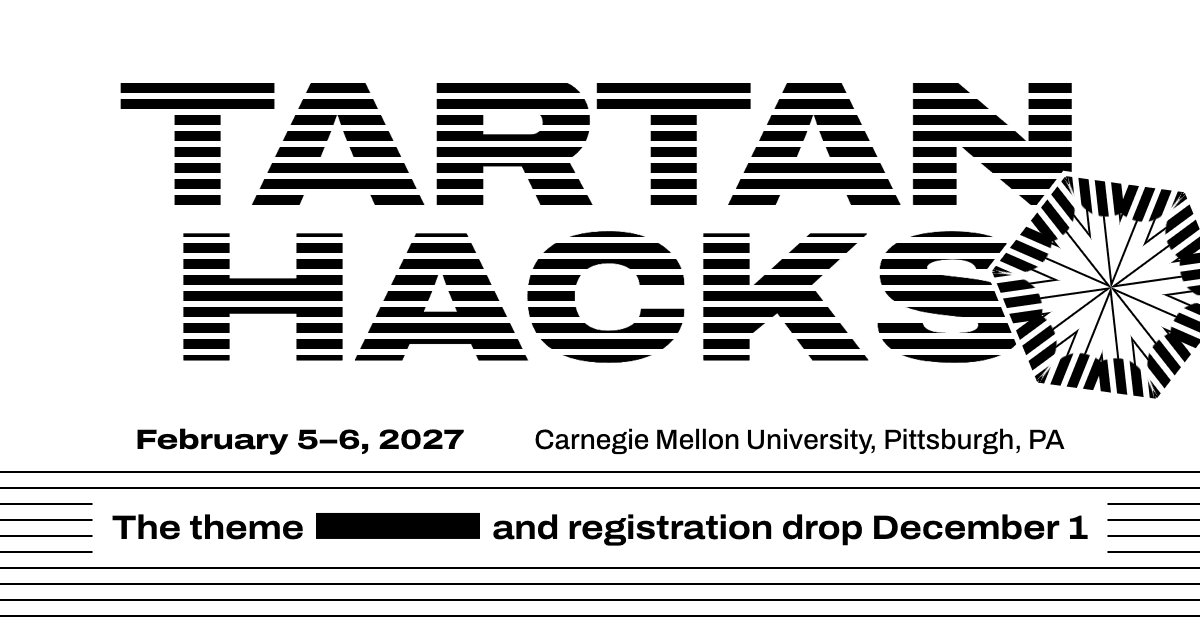
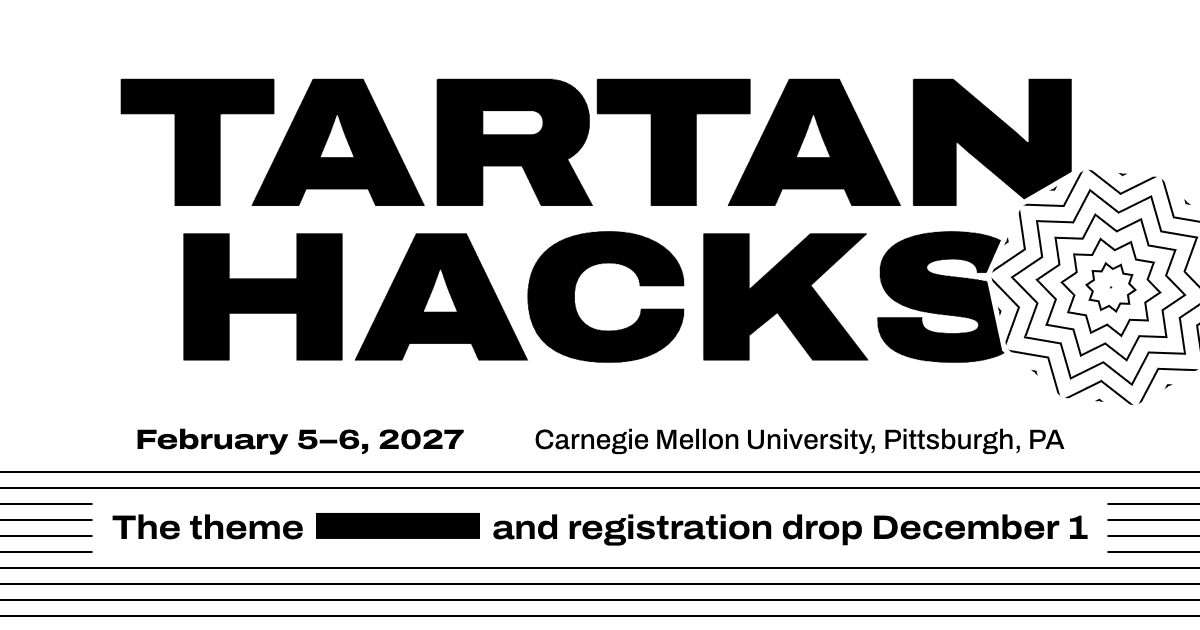
Draw the wordmark solid
The wordmark's rules now swell until they meet, so it stands solid black
on the white top of the sheet. Inside a fold it still breaks into heavy
rules, so the pointer effect is unchanged.

The share image is redrawn to match.

Changed region(s): [[0.0925, 0.1206, 1.0, 0.6333]]

diff --git a/src/field/shader.ts b/src/field/shader.ts
@@ -32,7 +32,7 @@ uniform vec2 uResolution;
 uniform float uPitch;       // distance between rules
 uniform float uCentre;      // offset of a rule's centre line within one pitch
 uniform float uThin;        // half the width of a plain rule
-uniform float uThick;       // half the width of a rule where the wordmark is
+uniform float uThick;       // half the width of a rule where a fold shows the wordmark
 uniform float uSeam;        // half the width of the cut around a facet
 
 uniform sampler2D uInk;     // coverage of the wordmark
@@ -109,8 +109,12 @@ void main() {
   float plain = rule(q.y, uThin);
   if (!folded) plain *= 1.0 - cleared(p);
 
+  // The wordmark inks in by its rules swelling. On the sheet as it lies they
+  // swell until they meet, and the wordmark is solid. Seen through a fold they
+  // stop short, so a fold is made of lines and nothing else.
   float ink = texture(uInk, (q - uInkRect.xy) / uInkRect.zw).r;
-  float cover = max(plain, rule(q.y, mix(uThin, uThick, uInkGain)) * ink);
+  float heavy = folded ? uThick : 0.5 * uPitch + 1.0;
+  float cover = max(plain, rule(q.y, mix(uThin, heavy, uInkGain)) * ink);
   cover *= revealed(p) * (1.0 - seam);
 
   fragColor = vec4(vec3(1.0 - cover), 1.0);

diff --git a/src/field/field.ts b/src/field/field.ts
@@ -65,8 +65,8 @@ function compile(gl: WebGL2RenderingContext, type: number, source: string): WebG
 }
 
 /**
- * The ruled sheet behind the page: horizontal rules, thickened where the
- * wordmark is, and folded into mirrored figures wherever the pointer travels.
+ * The ruled sheet behind the page: horizontal rules, the wordmark drawn into
+ * them, and the whole folded into mirrored figures wherever the pointer travels.
  */
 export class Field {
   /** Returns null when WebGL 2 is unavailable; the page then falls back to CSS rules. */

diff --git a/src/field/ink.ts b/src/field/ink.ts
@@ -1,5 +1,5 @@
 /**
- * Rasterises the wordmark into a coverage mask the field can thicken its
+ * Rasterises the wordmark into a coverage mask the field can draw its
  * rules through. The DOM stays the source of truth for layout: every glyph is
  * drawn where the browser placed it, so the drawn wordmark sits exactly over
  * the (transparent) text.

diff --git a/README.md b/README.md
@@ -59,9 +59,9 @@ src/styles/             tokens, base, layout, entrance
 
 ### The field
 
-The background is one WebGL 2 canvas behind the page. It draws a sheet of horizontal rules, thickens them wherever the wordmark is, and folds the sheet into mirrored figures where the pointer travels.
+The background is one WebGL 2 canvas behind the page. It draws a sheet of horizontal rules, draws the wordmark into them, and folds the sheet into mirrored figures where the pointer travels.
 
-Above the band the plain rules only pass through: they draw in with the rest of the sheet during the entrance, then leave, so the wordmark's heavy rules sit on white. The sheet is still there underneath, and shows again inside every fold.
+Above the band the plain rules only pass through: they draw in with the rest of the sheet during the entrance, then leave, so the wordmark sits solid on white. The sheet is still there underneath, and shows again inside every fold, where the wordmark breaks into heavy rules.
 
 - **The DOM owns layout.** The wordmark is real text. The field measures where the browser put each glyph and draws the wordmark into the rules at exactly that spot; the text itself stays in place, transparent, for selection and screen readers.
 - **Everything sits on the rule grid.** The distance between two rules is the *pitch*. The field rounds it to whole device pixels so the rules stay sharp, writes the exact value to the `--pitch` custom property, and CSS sizes everything vertical in pitches. Elements marked `data-snap` are nudged so their edges fall between rules.
